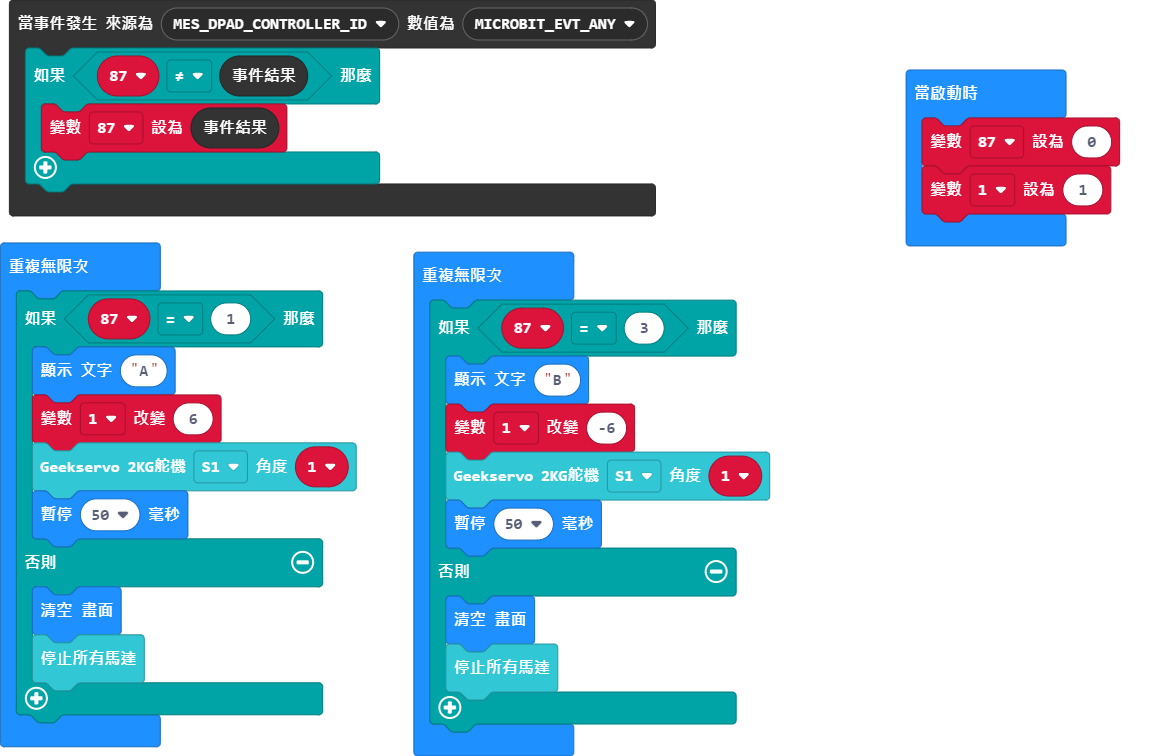
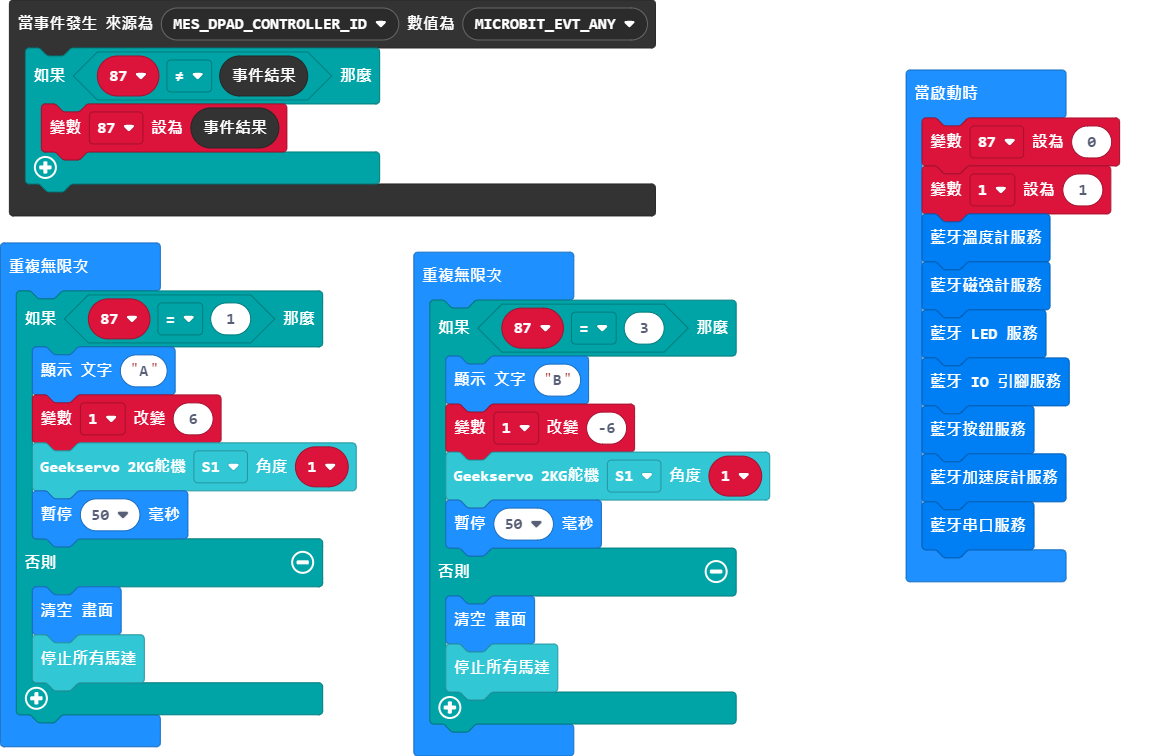
更新 main.blocks, main.ts

Changed region(s): [[0.7679, 0.2738, 0.9215, 0.791]]

diff --git a/main.ts b/main.ts
@@ -6,6 +6,13 @@ control.onEvent(EventBusSource.MES_DPAD_CONTROLLER_ID, EventBusValue.MICROBIT_EV
 let _87 = 0
 _87 = 0
 let _1 = 1
+bluetooth.startTemperatureService()
+bluetooth.startMagnetometerService()
+bluetooth.startLEDService()
+bluetooth.startIOPinService()
+bluetooth.startButtonService()
+bluetooth.startAccelerometerService()
+bluetooth.startUartService()
 basic.forever(function () {
     if (_87 == 1) {
         basic.showString("A")
